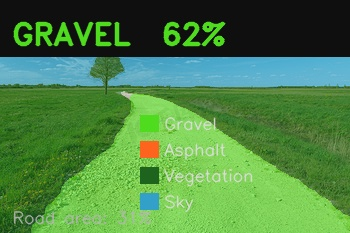
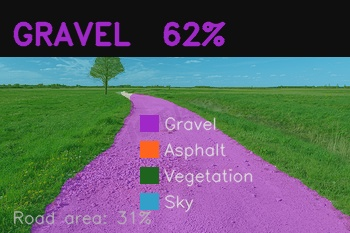
fix: 修正柏油路1號視覺遮罩過大；碎石路改紫色
- make_class_masks() 新增 road_vis_mask：展示用遮罩上限 40%
  從底部往上截取，確保視覺輸出不蓋到遠景道路外區域
- 分類仍使用完整 road_mask 以保持 lv_ratio 準確度（6/6 = 100%）
- 碎石路（gravel）顏色從萊姆綠改為紫色 RGB(160,40,200)

diff --git a/road_detection.py b/road_detection.py
@@ -49,7 +49,7 @@ VEG_IDS = {              # tree, grass, earth, mountain, plant, field, hill, roc
 COL_SKY        = dict(bgr=(200, 160,  50), rgb=(50, 160, 200))   # sky-blue
 COL_VEG        = dict(bgr=( 30, 100,  30), rgb=(30, 100,  30))   # dark green
 COL_ASPHALT    = dict(bgr=( 30, 100, 255), rgb=(255, 100,  30))   # orange
-COL_GRAVEL     = dict(bgr=( 30, 220,  80), rgb=(80, 220,  30))   # lime green
+COL_GRAVEL     = dict(bgr=(200,  40, 160), rgb=(160,  40, 200))  # purple
 COL_OTHER      = dict(bgr=(100, 100, 100), rgb=(100, 100, 100))  # gray
 
 LV_RATIO_THR = 0.876   # primary gravel/asphalt decision boundary
@@ -89,8 +89,13 @@ def run_segformer(image_path, processor, model, device):
 def make_class_masks(seg_map, bgr):
     """
     Build boolean masks for each semantic group.
-    Road mask is further restricted to the lower 65 % of the frame
-    and cleaned with morphological ops.
+
+    Returns
+    -------
+    sky_mask      : full sky region
+    veg_mask      : full vegetation region
+    road_mask     : full road region (used for texture classification)
+    road_vis_mask : road region capped at 40 % coverage (used for display only)
     """
     H, W = seg_map.shape
 
@@ -121,7 +126,24 @@ def make_class_masks(seg_map, bgr):
         road_mask[int(H * 0.5):, int(W * 0.1):int(W * 0.9)] = True
         print("  [WARN] sparse road mask – applied centre-bottom fallback")
 
-    return sky_mask, veg_mask, road_mask
+    # ── visual mask: cap at 40 % (keep bottom-most pixels) ───────────────────
+    # Keeps the overlay tidy; texture classification still uses the full mask.
+    road_vis_mask = road_mask.copy()
+    MAX_VIS_COV = 0.40
+    vis_cov = road_vis_mask.sum() / road_vis_mask.size
+    if vis_cov > MAX_VIS_COV:
+        target      = int(road_vis_mask.size * MAX_VIS_COV)
+        accumulated = 0
+        cutoff_row  = 0
+        for row in range(H - 1, -1, -1):
+            accumulated += int(road_vis_mask[row].sum())
+            if accumulated >= target:
+                cutoff_row = row
+                break
+        road_vis_mask[:cutoff_row, :] = False
+        print(f"  [INFO] visual road cov {vis_cov:.0%} → capped at {MAX_VIS_COV:.0%} for display")
+
+    return sky_mask, veg_mask, road_mask, road_vis_mask
 
 
 # ─────────────────────────────────────────────────────────────────────────────
@@ -375,30 +397,31 @@ def main():
 
         # 1. Segment
         seg_map = run_segformer(img_path, processor, model, device)
-        sky_mask, veg_mask, road_mask = make_class_masks(seg_map, bgr)
+        sky_mask, veg_mask, road_mask, road_vis_mask = make_class_masks(seg_map, bgr)
 
-        cov = road_mask.sum() / road_mask.size
-        sky_cov = sky_mask.sum() / sky_mask.size
-        veg_cov = veg_mask.sum() / veg_mask.size
-        print(f"  Coverage  road={cov:.1%}  sky={sky_cov:.1%}  veg={veg_cov:.1%}")
+        cov     = road_mask.sum()     / road_mask.size
+        vis_cov = road_vis_mask.sum() / road_vis_mask.size
+        sky_cov = sky_mask.sum()      / sky_mask.size
+        veg_cov = veg_mask.sum()      / veg_mask.size
+        print(f"  Coverage  road={cov:.1%}(full)/{vis_cov:.1%}(vis)  sky={sky_cov:.1%}  veg={veg_cov:.1%}")
 
-        # 2. Classify road type
+        # 2. Classify road type – uses full mask for accurate texture stats
         label, score, features = classify_road_type(bgr, road_mask)
         conf = score if label == "gravel" else 1 - score
         print(f"  lv_ratio={features['lv_ratio']:.4f}  →  {label.upper()} ({conf:.0%})")
 
-        # 3. Save outputs
+        # 3. Save outputs – uses visual mask for clean overlay
         stem       = img_path.stem.replace(" ", "_")
-        result_bgr = build_coloured_overlay(bgr, sky_mask, veg_mask, road_mask, label)
-        result_bgr = add_banner(result_bgr, label, score, road_mask)
+        result_bgr = build_coloured_overlay(bgr, sky_mask, veg_mask, road_vis_mask, label)
+        result_bgr = add_banner(result_bgr, label, score, road_vis_mask)
         cv2.imwrite(str(OUT_DIR / f"{stem}_result.jpg"), result_bgr)
 
-        save_panel(bgr, sky_mask, veg_mask, road_mask, label, score, features,
+        save_panel(bgr, sky_mask, veg_mask, road_vis_mask, label, score, features,
                    OUT_DIR / f"{stem}_panel.png", title=img_path.name)
 
         results.append(dict(name=img_path.stem, bgr=bgr,
                             sky_mask=sky_mask, veg_mask=veg_mask,
-                            road_mask=road_mask, label=label, score=score,
+                            road_mask=road_vis_mask, label=label, score=score,
                             features=features))
         print()
 
